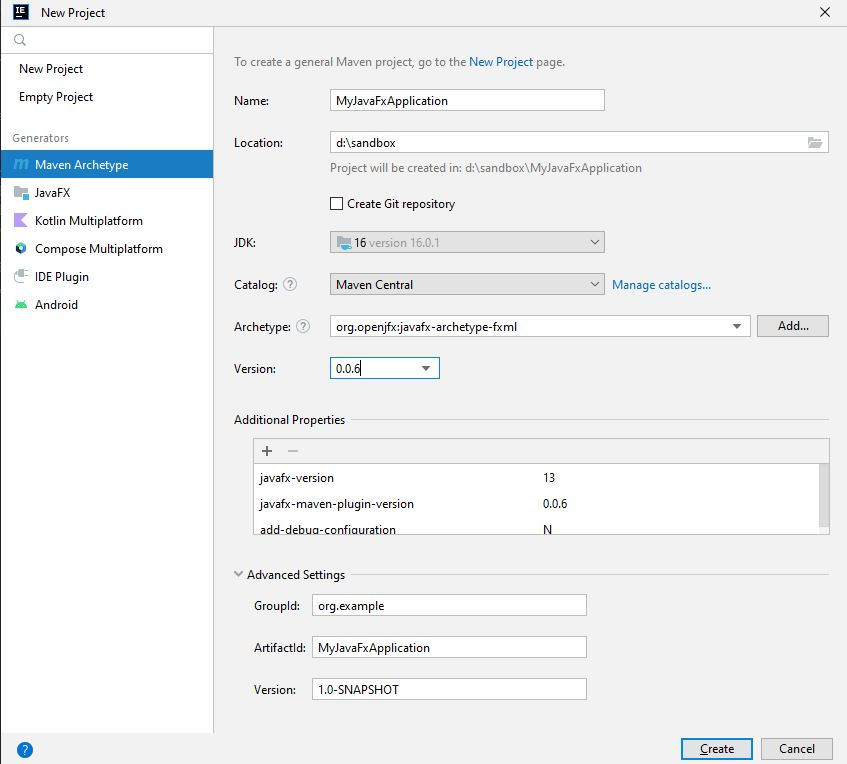
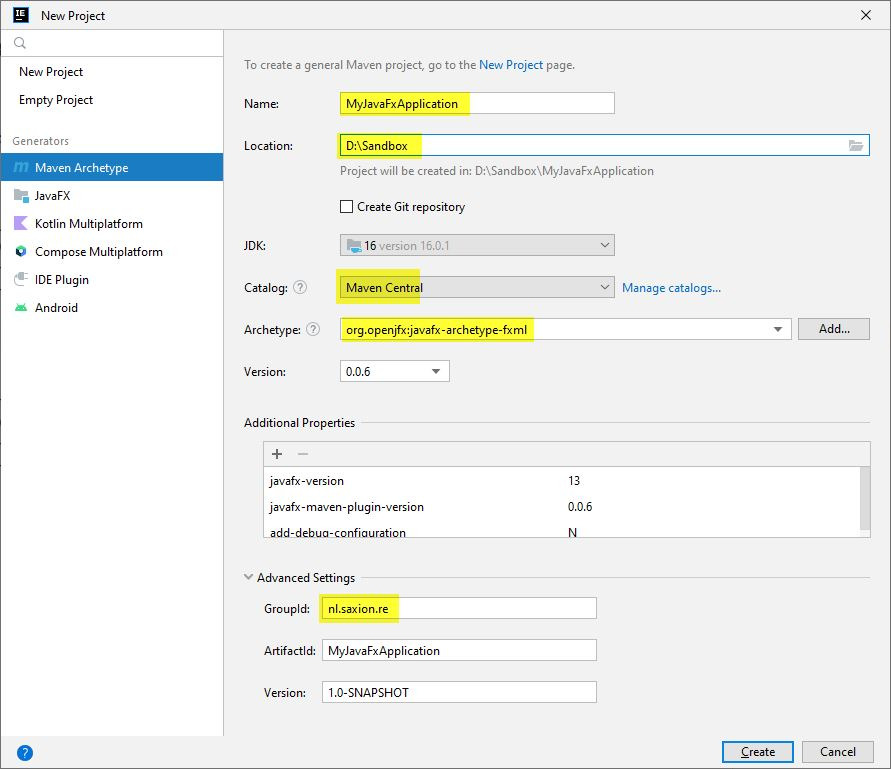
improved javafx create project

diff --git a/JavaFX.html b/JavaFX.html
@@ -366,18 +366,22 @@ code {
           : 'default'
     });
   </script>
+<!-- 
+manual changes: add title in title tag  
+change css for img, add: 	border: 1px solid Silver;
+-->
 <h1 id="tutorial-first-steps-in-creating-a-javafx-project-with-intellij">Tutorial: first steps in creating a JavaFX project with IntelliJ</h1>
 <h2 id="initializing-the-project">Initializing the project</h2>
 <p>In IntelliJ, create a new project. On the New Project wizard, choose &quot;Maven Archetype&quot;. On the Maven Archetype settings page, enter these values:</p>
 <ul>
 <li>Name: a name for your project</li>
 <li>Location: the directory where it should be stored</li>
-<li>JDK: most recent version</li>
+<li>JDK: leave at the most recent version</li>
 <li>Catalog: Maven Central</li>
-<li>Archetype: org.openjfx:javafx-archetype-fxml</li>
+<li>Archetype: <code>org.openjfx:javafx-archetype-fxml</code></li>
 <li>Version: leave as is</li>
 <li>Select &quot;Advanced settings&quot;</li>
-<li>GroupId: nl.saxion.re, or your own package</li>
+<li>GroupId: <code>nl.saxion.re</code>, or your own package</li>
 </ul>
 <p><img src="javafx/1-newproject.jpg" alt=""></p>
 <p>Press &quot;Create&quot;. After some time, the project will be ready. You can test the application by starting it from the <code>App</code> class.</p>
@@ -455,7 +459,7 @@ panePicture.getChildren().add(<span class="hljs-keyword">new</span> ImageView(ur
 <p><img src="javafx/14-cat.jpg" alt=""></p>
 <h1 id="do-it-yourself">Do it yourself</h1>
 <h2 id="assignment-1-the-%22next%22-button">Assignment 1: the &quot;Next&quot; button</h2>
-<p>You can now go ahead and implement the &quot;Next&quot; button yourself, using the URL to the 1965 dog. Or use your own images.<br>
+<p>You can now go ahead and implement the &quot;Next&quot; button yourself, using the URL to the 1965 dog.
 <a href="https://service.archief.nl/gaf/api/file/v1/img/80c487af-3093-4b9d-a25f-676f46e322d8?h=300">https://service.archief.nl/gaf/api/file/v1/img/80c487af-3093-4b9d-a25f-676f46e322d8?h=300</a></p>
 <p><img src="https://service.archief.nl/gaf/api/file/v1/img/80c487af-3093-4b9d-a25f-676f46e322d8?h=300" alt=""></p>
 <h2 id="assignment-2-getting-and-setting-text-in-controls">Assignment 2: getting and setting text in controls</h2>
@@ -474,9 +478,9 @@ Everything after the question mark is the search query. In this example it will 
 <p>When you completed this tutorial, you know some of the very basics of JavaFX. But it's a large framework, capable of doing many nice things. There are lots of tutorials and references online, for example <a href="https://www.youtube.com/playlist?list=PL6gx4Cwl9DGBzfXLWLSYVy8EbTdpGbUIG">this playlist on YouTube</a>.</p>
 <p>This tutorial is <a href="https://creativecommons.org/licenses/by-nc-sa/4.0/">CC BY-NC-SA licensed</a>. This means that when sharing it: BY – credit must be given to the creator, NC – only noncommercial uses of the work are permitted and, SA – adaptations must be shared under the same terms.</p>
 <img src="javafx/0-saxion.jpg" width="200" style="float: right">
-<p>Organization: <a href="https://www.saxion.edu">Saxion University of Applied Sciences</a>.<br>
-Author: <a href="mailto:j.w.boer@saxion.nl">Jan Willem Boer</a>.<br>
-Credit: Dog and cat from <a href="https://www.nationaalarchief.nl/onderzoeken/zoeken?activeTab=photos&amp;rm=gallery">Dutch National Archives</a>. Random image search by <a href="https://unsplash.com/">unsplash</a><br>
+<p>Author: <a href="mailto:j.w.boer@saxion.nl">Jan Willem Boer</a> @ <a href="https://www.saxion.edu">Saxion University of Applied Sciences</a>.<br>
+Dog and cat from <a href="https://www.nationaalarchief.nl/onderzoeken/zoeken?activeTab=photos&amp;rm=gallery">Dutch National Archives</a>.<br>
+Random image search by <a href="https://unsplash.com/">unsplash</a><br>
 Date: 2022-06-10.</p>
 
 </body>
